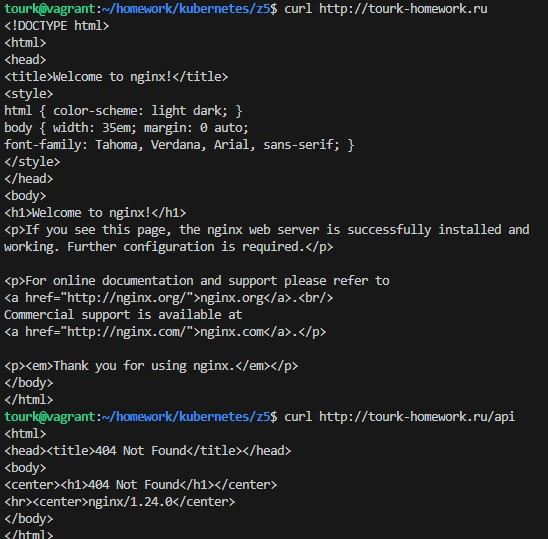
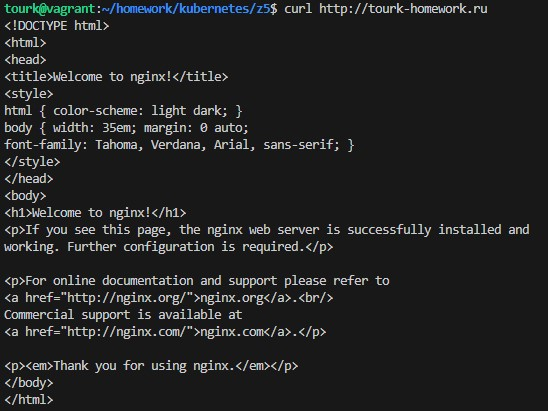
Update

Changed region(s): [[0.0, 0.0, 0.9617, 0.6423], [0.0, 0.6715, 0.9617, 1.0]]

diff --git a/HW_Kubernetes/5/README.md b/HW_Kubernetes/5/README.md
@@ -145,6 +145,8 @@ spec:
 
 ![Скриншот](https://github.com/Tourker/Git_HW/blob/main/HW_Kubernetes/img/5/z2_4.jpg)
 
+![Скриншот](https://github.com/Tourker/Git_HW/blob/main/HW_Kubernetes/img/5/z2_5.jpg)
+
 4. Предоставить манифесты и скриншоты или вывод команды п.2.
 
 #### Ingress:
@@ -155,6 +157,7 @@ kind: Ingress
 metadata:
   name: web-ingress
   annotations:
+    nginx.ingress.kubernetes.io/rewrite-target: /
 spec:
   rules:
   - host: tourk-homework.ru
